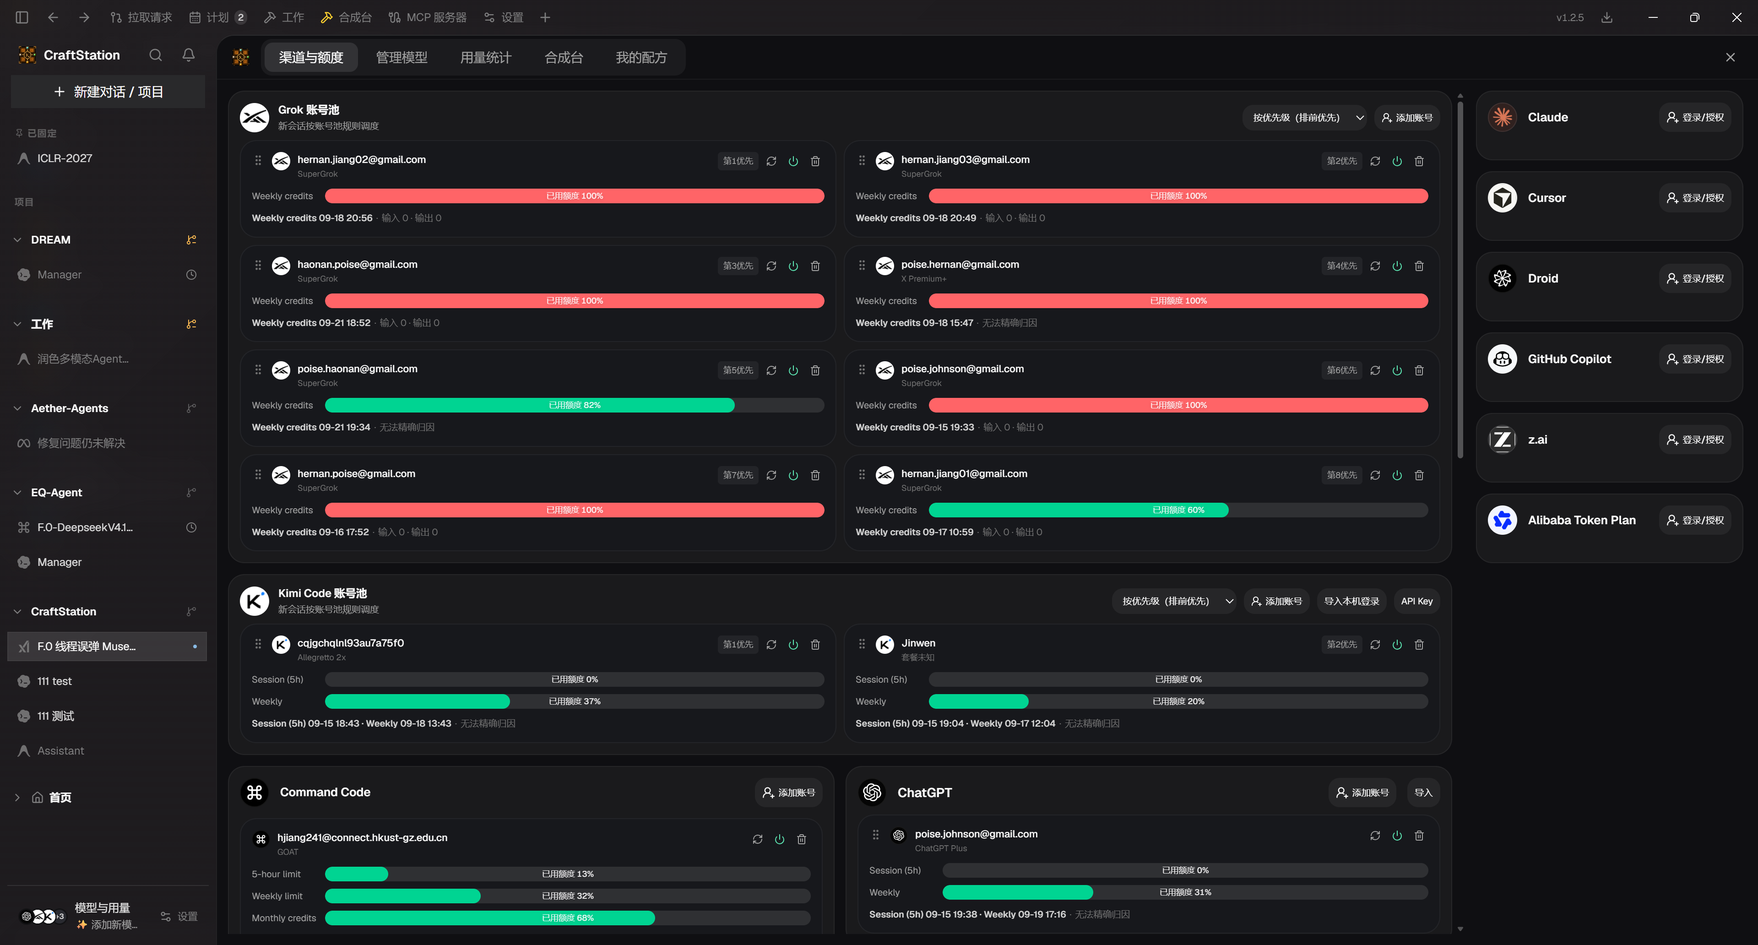
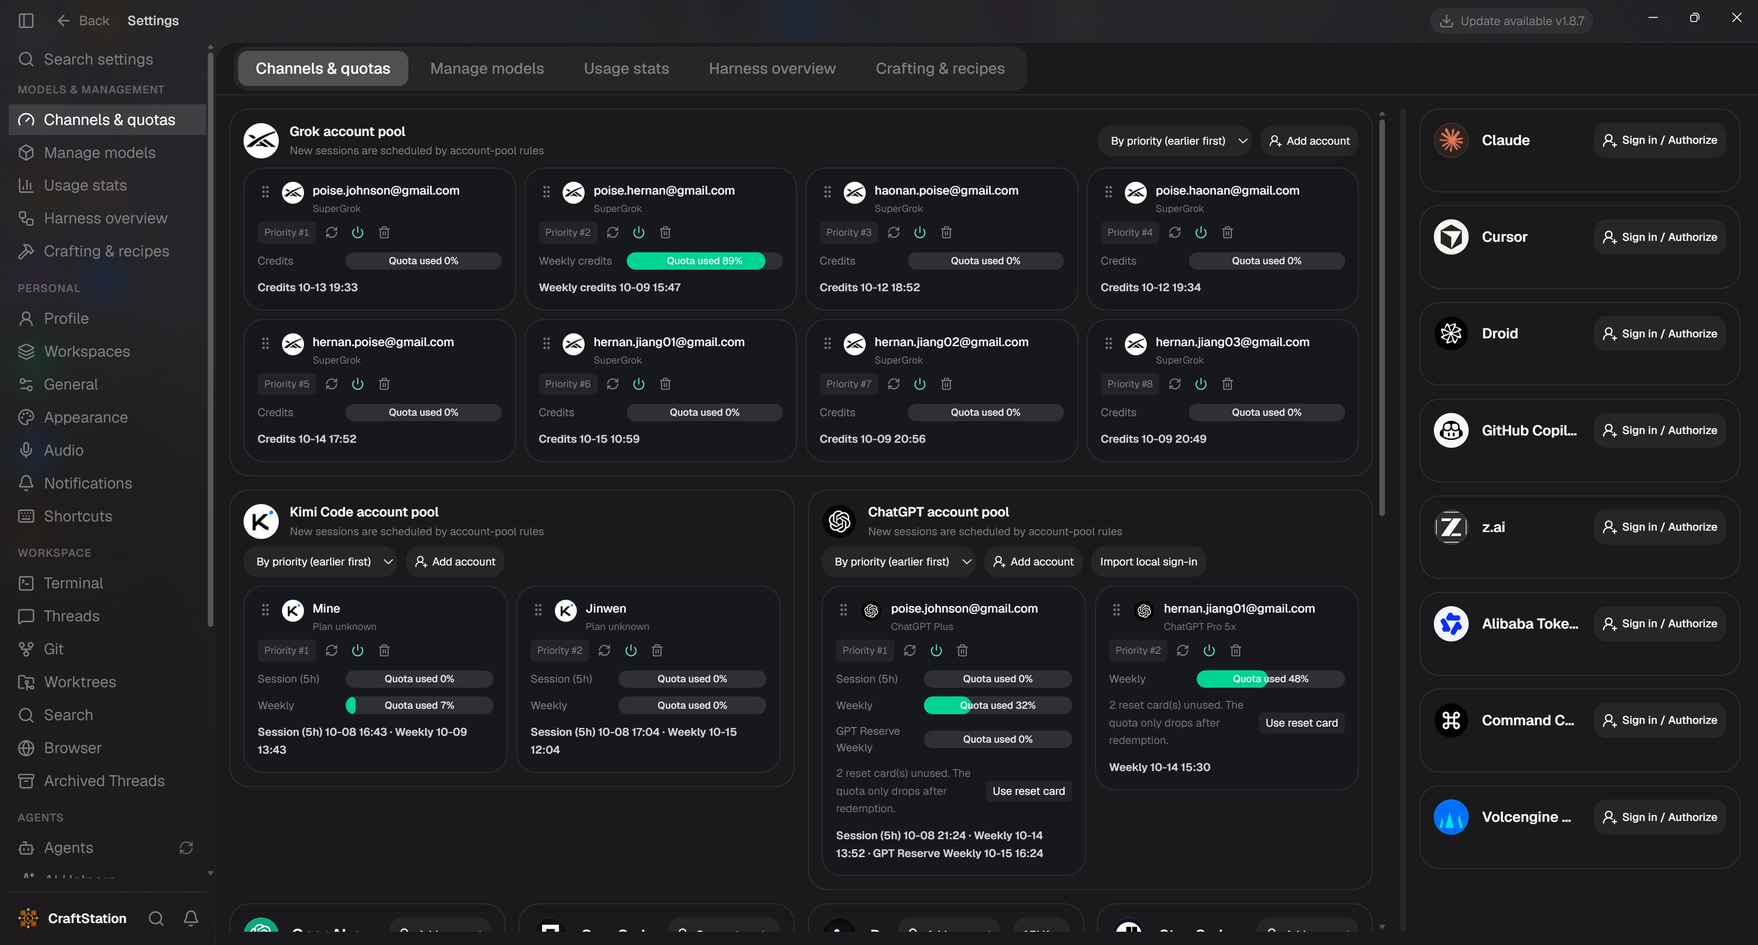
docs: showcase CraftStation with bilingual README and product screenshots

diff --git a/README.md b/README.md
@@ -5,15 +5,15 @@
 <h1 align="center">CraftStation</h1>
 
 <p align="center">
-  <strong>Agent Runtime Composition System</strong><br />
-  Compose a Model × Harness into a running Session.<br />
-  Not a multi-model chat GUI, not a CLI launcher, not a reskin of any single harness.
+  <strong>Your model. Your harness. Your agent.</strong><br />
+  Agent Runtime Composition System<br />
+  Choose a model, craft a runtime, and get to work.
 </p>
 
 <p align="center">
   <a href="./README.zh-CN.md">中文</a>
   ·
-  <a href="https://github.com/HernanJiang/CraftStation/releases">Download</a>
+  <a href="https://github.com/HernanJiang/CraftStation/releases/latest">Download</a>
   ·
   <a href="./LICENSE">Apache 2.0</a>
 </p>
@@ -22,81 +22,85 @@
 
 ---
 
-CraftStation treats an agent run as a **craft**: pick Items (model, harness, tools, accounts), form a Recipe, let the Crafter compile a plan, spawn an Entity, and keep working inside a Session.
+**Build the agent you want to work with.** CraftStation brings models, Harnesses, accounts, MCP servers, and Skills into one desktop workspace. Use **Auto** to follow a model's native runtime path, or craft a **Recipe** with an explicit Model × Harness combination and reuse it across your projects.
 
-**Auto** chooses the native Harness for that model family so the model keeps its full runtime.  
-A Recipe you save on the workbench is an explicit composition: launch should be _that_ Harness + _that_ model.
-
-<p align="center">
-  <img src="docs/screenshots/home-composer.png" alt="CraftStation home: model picker with recipes and many harnesses" width="960" />
-</p>
-
-<p align="center"><em>One window for Codex, Kimi Code, Antigravity, OpenCode, Command Code, and more. Saved recipes sit at the top of the model list.</em></p>
-
-## Capabilities
-
-### Many CLIs and harnesses, one scheduler
-
-Codex, OpenCode, Kimi Code, Antigravity / Gemini, Grok, DeepSeek, Muse, Claude, Cursor, Command Code, Copilot, and ACP agents all start, stop, switch models, and stream thinking/tools in the same desktop. You do not keep a separate terminal and shortcut set for each CLI.
-
-### Native Model × Harness matching (maximum capability)
-
-When the model vendor and harness vendor match, CraftStation uses the official runtime (Gemini → Antigravity, Kimi → Kimi Code, GPT → Codex, and so on). The agent loop, context compression, tools, MCP, and skills stay owned by that runtime. Native matching is the default path and the highest-capability path.
-
-### Custom Harness + model recipes
-
-The workbench lets you compose explicitly — for example **Gemini 3.8 Flash × Codex Native**, or **Kimi K3-256k × Codex Native**. Same-vendor pairs stay native. Cross-vendor pairs go through the compatibility bridge (CLIProxyAPI), projecting a subscription or key into an API the target harness can consume.
+Inspired by Minecraft's crafting system, CraftStation turns composition into an executable workflow: select Items, form a Recipe, let the Crafter compile a plan, and spawn an Entity that works inside a continuous Session. The Harness is the runtime that drives the agent: its execution loop, context, and tools.
 
 <p align="center">
-  <img src="docs/screenshots/workbench-craft.png" alt="Workbench: Gemini 3.8 Flash with Codex Native Harness via compatibility bridge" width="960" />
+  <img src="docs/screenshots/home-composer.png" alt="CraftStation home with projects, recent threads, and the unified agent composer" width="960" />
 </p>
 
-<p align="center"><em>Workbench: pick a model, pick a harness, inspect components (including CLIProxyAPI). A craftable result can be saved as a recipe and reused from the home picker.</em></p>
+<p align="center"><em>Your projects, recent threads, environment, permissions, and agent selection—all within reach when you start a task.</em></p>
 
-### Account pools with priority scheduling
+## What makes CraftStation different
 
-Each provider can hold multiple accounts (Grok, Kimi Code, ChatGPT, Command Code, …) with priority, enable/disable, and quota bars. New sessions follow the pool: higher priority first, then the next account when quota or availability fails — no manual account swapping every turn.
+### One model menu, a whole workspace of agents
+
+Choose from models across **Codex, Grok Build, Kimi Code, Antigravity, OpenCode, Devin, Step Code**, and other integrated Harnesses. Saved Recipes appear alongside models, so a combination you crafted becomes an everyday choice in the same composer.
+
+Stay in your project while switching agents, following their output, and inspecting tool activity. Your workspace stays familiar as you choose the runtime that suits the task.
 
 <p align="center">
-  <img src="docs/screenshots/account-pool.png" alt="Provider usage: Grok / Kimi Code / Command Code / ChatGPT account pools and priority" width="960" />
+  <img src="docs/screenshots/model-picker.png" alt="Unified model picker showing saved Recipes and models from multiple Harnesses" width="960" />
 </p>
 
-<p align="center"><em>Channels & quota: several accounts per provider, weekly/session usage visible, drag to reorder 1st / 2nd / … priority.</em></p>
+<p align="center"><em>Native models and your own Recipes share one entry point. The menu shows the Harness behind each choice.</em></p>
 
-### Native MCP: cross-thread tasks, Schedule, Computer Use
+### Craft a combination. Save it. Use it again.
 
-CraftStation exposes MCP so an agent can:
+The workbench makes **Model × Harness** composition visible. Pick your ingredients, inspect compatibility, and save a craftable result as a Recipe. The inventory beside the grid shows available MCP servers and Skills, with shortcuts to manage them.
 
-- **Dispatch across threads** — hand work to another live session (or spawn one) instead of stuffing everything into the current context
-- **Schedule** — wake a thread on a timer or interval
-- **Computer Use** — click, type, and screenshot the host desktop (Windows)
+The screenshots show Recipes such as **Gemini 3.8 Flash × Codex Native Harness** and **K3-256k × Codex Native Harness**. Supported cross-vendor combinations use a compatibility bridge where needed; CLIProxyAPI handles provider/API compatibility while the selected Harness continues to run the agent.
 
-These inject like any other MCP, filtered by harness compatibility at launch.
+Save a useful combination once, then select it from the home model menu when you need it again.
 
-### Unified Skills, Git, and MCP
+<p align="center">
+  <img src="docs/screenshots/workbench-craft.png" alt="Crafting workbench with Model and Harness inventories, saved Recipes, MCP servers, and Skills" width="960" />
+</p>
 
-Skills, Git / worktrees, and MCP servers are not scattered across each CLI’s config folder. CraftStation is the management plane: enable, disable, scope, and project binding live in one place. Each harness only receives the resolved capability set.
+<p align="center"><em>A crafting grid for your agent: Model and Harness inventories, reusable Recipes, and a visible MCP and Skills inventory.</em></p>
 
-### CLI updates that actually reach your sessions
+### See the runtime behind the model
 
-The titlebar’s update menu checks every installed CLI against upstream and updates it in place. **Settings → Agents → General → Auto-update CLIs** (on by default) applies discovered updates automatically through the same pipeline — turn it off to keep checks read-only and update manually.
+The Harness overview connects **Channel → Model → Final Harness / CLI**. See where a model comes from, which runtime executes it, and whether that runtime is ready or still needs installation.
 
-Version reporting reflects the binary your sessions really launch: for providers with account-pool homes (e.g. Grok’s per-account `GROK_HOME`), CraftStation detects the managed copy inside each profile — not just the global PATH install — and propagates a successful update into every managed profile, so a pool account can’t stay pinned to an old build.
+**Auto** follows the model's default native path—for example, GPT → Codex, Kimi → Kimi Code, and Gemini → Antigravity. The official runtime retains ownership of its agent loop, context management, tool execution, MCP, and Skills. An explicit **Recipe** lets you choose a supported composition yourself.
 
-## Install
+<p align="center">
+  <img src="docs/screenshots/harness-overview.png" alt="Harness overview connecting provider channels, models, and the final Harness or CLI, with readiness states" width="960" />
+</p>
 
-Download the installer or the portable build from GitHub Releases, not from the source tree.
+<p align="center"><em>Follow the connections from account channel to model to execution runtime, and see availability in the same view.</em></p>
 
-**Current build: 1.7.13**
+### Put your accounts and quotas to work
 
-- Installer: [CraftStation-Setup-1.7.13-x64.exe](https://github.com/HernanJiang/CraftStation/releases/download/v1.7.13/CraftStation-Setup-1.7.13-x64.exe)
-- Portable: [CraftStation-Portable-1.7.13-x64.exe](https://github.com/HernanJiang/CraftStation/releases/download/v1.7.13/CraftStation-Portable-1.7.13-x64.exe)
+Manage multiple accounts in supported provider pools, including **Grok, Kimi Code, and ChatGPT**. View session or weekly usage, reset times, account priorities, and enable/disable controls together.
 
-([GitHub Releases](https://github.com/HernanJiang/CraftStation/releases))
+New sessions follow the pool's scheduling rules. Order accounts by priority, and let pool failover select another eligible account when quota or availability prevents the current one from continuing. You can see which accounts still have capacity before starting the next task.
 
-1. Download either exe. The installer uses NSIS; the portable build runs with a double-click. No extra Electron / Node setup.
-2. Runtime dependencies are inside the package: Chromium, native modules (`better-sqlite3` / `node-pty`), the peripheral sidecar, and the official Windows **CLIProxyAPI** sidecar (so cross-vendor recipes can start the compatibility bridge).
-3. Sign in to the agents you already use (Codex / Kimi Code / Antigravity / Grok CLIs still come from your local official installs and subscriptions).
+<p align="center">
+  <img src="docs/screenshots/account-pool.png" alt="Channels and quotas showing Grok, Kimi Code, and ChatGPT account pools, priorities, usage, and reset times" width="960" />
+</p>
+
+<p align="center"><em>Multiple accounts, visible capacity, and clear priorities—managed from one Channels &amp; quotas page.</em></p>
+
+## Tools that keep work moving
+
+- **Cross-thread collaboration:** agents can hand tasks to other Sessions or create a new one through built-in MCP tools.
+- **Schedule:** wake a thread at a scheduled time or interval to continue working.
+- **Browser and Computer Use:** give compatible Harnesses browser tools and Windows desktop actions, including clicks, typing, and screenshots.
+- **Skills, MCP, and Git / worktrees:** manage capabilities and project workflows from the same desktop, with project bindings and compatible tool injection.
+- **CLI updates:** check and update installed CLIs from the titlebar. Automatic updates can be controlled in **Settings → Agents → General → Auto-update CLIs**; managed account-profile copies are updated too.
+
+## Get started
+
+**[Download the latest release →](https://github.com/HernanJiang/CraftStation/releases/latest)**
+
+1. Choose the **Windows x64 installer** (`CraftStation-Setup-…-x64.exe`) or **portable build** (`CraftStation-Portable-…-x64.exe`). Run the installer for a regular installation, or double-click the portable executable.
+2. Open CraftStation and connect your accounts. Agent CLIs use their official tools and your existing subscriptions; install or authorize the Harnesses you want to use.
+3. Open a project, select a model with **Auto** or a saved **Recipe**, and send your first task.
+
+The Windows package includes the desktop runtime and the CLIProxyAPI compatibility sidecar. No separate Electron or Node.js setup is required to run the packaged app. Available platforms and artifacts are listed on each release page.
 
 ## License
 

diff --git a/README.zh-CN.md b/README.zh-CN.md
@@ -5,15 +5,15 @@
 <h1 align="center">CraftStation</h1>
 
 <p align="center">
-  <strong>Agent Runtime Composition System</strong><br />
-  把 Model × Harness 合成成一次可运行的 Session。<br />
-  不是多模型聊天窗，不是 CLI 启动器，也不是某一家 Harness 的换皮。
+  <strong>选模型，配运行时，合成你的 Agent。</strong><br />
+  Agent Runtime Composition System<br />
+  把喜欢的模型与 Harness 组合起来，让配方真正开始干活。
 </p>
 
 <p align="center">
   <a href="./README.md">English</a>
   ·
-  <a href="https://github.com/HernanJiang/CraftStation/releases">下载</a>
+  <a href="https://github.com/HernanJiang/CraftStation/releases/latest">下载</a>
   ·
   <a href="./LICENSE">Apache 2.0</a>
 </p>
@@ -22,75 +22,85 @@
 
 ---
 
-CraftStation 把一次 Agent 运行当成一次**合成**：选择 Item（模型、Harness、工具、账号），形成 Recipe，由 Crafter 编译计划，spawn 成 Entity，在 Session 里连续工作。
+**把你想用的 Agent 组合出来。** CraftStation 将模型、Harness、账号、MCP 服务器和 Skills 带进同一个桌面工作区。用 **Auto** 沿模型的原生运行路径直接开工，也可以在合成台指定 **Model × Harness**，保存为 **Recipe（配方）**，在不同项目中反复使用。
 
-**Auto** 按模型族选择原生 Harness，让模型跑在它自己的运行时上，能力不被稀释。  
-你在合成台指定的配方是显式组合：启动时就应该是那个 Harness + 那个模型。
-
-<p align="center">
-  <img src="docs/screenshots/home-composer.png" alt="CraftStation 首页：多 Harness 模型列表与我的配方" width="960" />
-</p>
-
-<p align="center"><em>一个窗口里同时管理 Codex、Kimi Code、Antigravity、OpenCode、Command Code……保存的配方会出现在模型列表顶部。</em></p>
-
-## 核心能力
-
-### 多 CLI / Harness 聚集到一起调度
-
-Codex、OpenCode、Kimi Code、Antigravity / Gemini、Grok、DeepSeek、Muse、Claude、Cursor、Command Code、Copilot 以及 ACP 代理，都在同一套桌面里启动、停、切模型、看思考链和工具调用。不用为每个 CLI 开一个终端、记一套快捷键。
-
-### 模型原生匹配 Harness，最大化模型能力
-
-同一厂商的模型优先走该厂商的原生 Harness（例如 Gemini → Antigravity，Kimi → Kimi Code，GPT → Codex）。Agent Loop、上下文压缩、工具执行、MCP 与 Skills 仍由官方 Runtime 拥有，CraftStation 不重写这些内部能力。原生匹配是默认路径，也是能力上限最高的路径。
-
-### 自定义 Harness + 模型搭配
-
-合成台允许你显式组合：例如 **Gemini 3.8 Flash × Codex Native**，或 **Kimi K3-256k × Codex Native**。匹配时走原生；跨厂商时走兼容桥（CLIProxyAPI），把订阅/Key 投影成 Target Harness 能吃的 API。
+借鉴 Minecraft 的合成系统，CraftStation 把组合变成可执行的流程：选择 Item，形成 Recipe，由 Crafter 编译计划，再启动为 Entity，在连续的 Session 中工作。Harness 就是驱动 Agent 的运行时，负责执行循环、上下文和工具。
 
 <p align="center">
-  <img src="docs/screenshots/workbench-craft.png" alt="合成台：Gemini 3.8 Flash 与 Codex Native Harness 兼容桥合成" width="960" />
+  <img src="docs/screenshots/home-composer.png" alt="CraftStation 首页：项目、最近线程与统一 Agent 输入区" width="960" />
 </p>
 
-<p align="center"><em>合成台：左边选模型，中间选 Harness，右边看组件（含 CLIProxyAPI）。可合成的结果可以存成配方，下次从首页直接选用。</em></p>
+<p align="center"><em>项目、最近线程、运行环境、权限和 Agent 选择，都在开始任务时触手可及。</em></p>
 
-### 多号池 + 优先级调度
+## CraftStation 的独特之处
 
-每个渠道可以挂多张账号（Grok、Kimi Code、ChatGPT、Command Code 等）。账号带优先级、启用开关和额度条。新会话按池规则调度：高优先级先用，额度耗尽或不可用时落到下一张，而不是每次手动换号。
+### 一个模型入口，调动整个工作区的 Agent
+
+在同一菜单中选择 **Codex、Grok Build、Kimi Code、Antigravity、OpenCode、Devin、Step Code** 等已接入 Harness 的模型。保存的 Recipe 与模型一起出现，让你亲手合成的组合成为日常随时可选的 Agent。
+
+在当前项目中切换 Agent、跟进输出、查看工具活动。选择适合任务的运行时，继续在熟悉的工作区里干活。
 
 <p align="center">
-  <img src="docs/screenshots/account-pool.png" alt="渠道与额度：Grok / Kimi Code / Command Code / ChatGPT 多号池与优先级" width="960" />
+  <img src="docs/screenshots/model-picker.png" alt="统一模型菜单：保存的 Recipe 与多个 Harness 的模型同屏展示" width="960" />
 </p>
 
-<p align="center"><em>渠道与额度：同一提供商多账号排队，Weekly / Session 额度一目了然，第 1 优先、第 2 优先……可拖动调整。</em></p>
+<p align="center"><em>原生模型与自己的 Recipe 共用一个入口，每个选项背后的 Harness 清晰可见。</em></p>
 
-### MCP 原生：跨线程发任务、Schedule、Computer Use
+### 合成一个好用的组合，保存后随时再用
 
-CraftStation 自己提供 MCP，Agent 可以：
+合成台把 **Model × Harness** 的组合过程摆到眼前：选择原料、查看兼容状态，把可合成的结果保存为 Recipe。旁边的原料清单展示可用的 MCP 服务器和 Skills，并提供管理入口。
 
-- **跨线程发任务**：把工作派给另一个正在跑的 Session（或新建一条），而不是把所有事塞进当前上下文
-- **Schedule**：定时 / 间隔唤醒一条线程继续干活
-- **Computer Use**：在本机桌面上点、键、截屏（Windows）
+截图中展示了 **Gemini 3.8 Flash × Codex Native Harness** 和 **K3-256k × Codex Native Harness** 等配方。在支持的跨厂商组合中，需要时通过兼容桥连接；CLIProxyAPI 负责渠道与 API 兼容，选定的 Harness 继续负责运行 Agent。
 
-这些能力跟第三方 MCP 一样，在启动时按 Harness 兼容性注入。
+把适合自己的组合保存一次，下次直接从首页模型菜单选用。
 
-### Skills、Git、MCP 统一管理
+<p align="center">
+  <img src="docs/screenshots/workbench-craft.png" alt="合成台：Model 与 Harness 清单、保存的 Recipe、MCP 服务器和 Skills" width="960" />
+</p>
 
-Skills、Git / worktree、MCP 服务器不再散落在各家 CLI 的配置目录里。CraftStation 作为统一管理面：启用、禁用、注入范围、项目级绑定都在一处。各 Harness 只消费已经解析好的能力集。
+<p align="center"><em>给 Agent 的合成方格：模型与 Harness 原料、可复用的配方，以及一目了然的 MCP 和 Skills 清单。</em></p>
 
-## 安装
+### 模型背后，谁在真正执行，一眼看清
 
-请从 GitHub Releases 下载安装包或便携版，不要用仓库里的源码目录当安装包。
+Harness 总览把 **渠道 → 模型 → 最终 Harness / CLI** 连成可视路径。模型来自哪里、实际由哪个运行时执行、运行时已就绪还是需要安装，都能在同一张图中看清。
 
-**当前版本 1.5.11**
+**Auto** 沿模型的默认原生路径运行，例如 GPT → Codex、Kimi → Kimi Code、Gemini → Antigravity。Agent Loop、上下文管理、工具执行、MCP 和 Skills 继续由官方运行时拥有；显式 **Recipe** 则让你自行选择受支持的组合。
 
-- 安装包：[CraftStation-Setup-1.5.11-x64.exe](https://github.com/HernanJiang/CraftStation/releases/download/v1.5.11/CraftStation-Setup-1.5.11-x64.exe)
-- 便携版：[CraftStation-Portable-1.5.11-x64.exe](https://github.com/HernanJiang/CraftStation/releases/download/v1.5.11/CraftStation-Portable-1.5.11-x64.exe)
+<p align="center">
+  <img src="docs/screenshots/harness-overview.png" alt="Harness 总览：渠道、模型与最终执行 Harness 或 CLI 的连接及就绪状态" width="960" />
+</p>
 
-（[GitHub Releases](https://github.com/HernanJiang/CraftStation/releases)）
+<p align="center"><em>沿连接线追踪账号渠道、模型和执行运行时，同时查看可用状态。</em></p>
 
-1. 下载上述 exe，双击运行，无需安装、无需再装 Electron / Node
-2. 包内已带运行时依赖：Chromium、原生模块（better-sqlite3 / node-pty）、外设 sidecar，以及官方 Windows **CLIProxyAPI** sidecar（跨厂商配方可直接起兼容桥）
-3. 登录你已有的 Agent 账号（Codex / Kimi Code / Antigravity / Grok 等 CLI 仍使用你本机已安装的官方工具与订阅）
+### 多个账号，一处掌握额度与调度
+
+在支持账号池的渠道中集中管理多个账号，包括 **Grok、Kimi Code 和 ChatGPT**。会话或每周额度、重置时间、账号优先级和启用开关集中展示。
+
+新会话按账号池规则调度。按优先级排列账号，当前账号因额度或可用性无法继续时，由账号池切换到其他符合条件的账号。开始下一项任务前，就能看清哪些账号还有余量。
+
+<p align="center">
+  <img src="docs/screenshots/account-pool.png" alt="渠道与额度：Grok、Kimi Code 和 ChatGPT 多账号池、优先级、额度及重置时间" width="960" />
+</p>
+
+<p align="center"><em>多个账号、剩余额度与调度顺序，在「渠道与额度」页面统一管理。</em></p>
+
+## 让工作持续推进的工具
+
+- **跨线程协作**：Agent 通过内置 MCP 工具把任务交给其他 Session，也可以新建线程开展工作。
+- **Schedule**：在指定时间或按间隔唤醒线程，继续推进任务。
+- **浏览器与 Computer Use**：为兼容的 Harness 提供浏览器工具和 Windows 桌面操作，包括点击、输入和截图。
+- **Skills、MCP、Git / worktree**：在同一个桌面中管理能力与项目工作流，支持项目绑定和兼容的工具注入。
+- **CLI 更新**：从标题栏检查、更新已安装的 CLI；在 **设置 → Agents → 一般 → 自动更新 CLI** 中控制自动更新，受管理的账号配置目录中的 CLI 副本也会同步更新。
+
+## 开始使用
+
+**[下载最新版本 →](https://github.com/HernanJiang/CraftStation/releases/latest)**
+
+1. 选择 **Windows x64 安装包**（`CraftStation-Setup-…-x64.exe`）或 **便携版**（`CraftStation-Portable-…-x64.exe`）。安装包按向导安装；便携版双击即可运行。
+2. 打开 CraftStation，连接你的账号。Agent CLI 使用官方工具和你已有的订阅，按需安装或授权想用的 Harness。
+3. 打开项目，用 **Auto** 选择模型或选用已保存的 **Recipe**，发送第一个任务。
+
+Windows 包已包含桌面运行时和 CLIProxyAPI 兼容桥，无需另外配置 Electron 或 Node.js 即可运行应用。各版本提供的平台与下载文件以发布页面为准。
 
 ## 许可证
 
